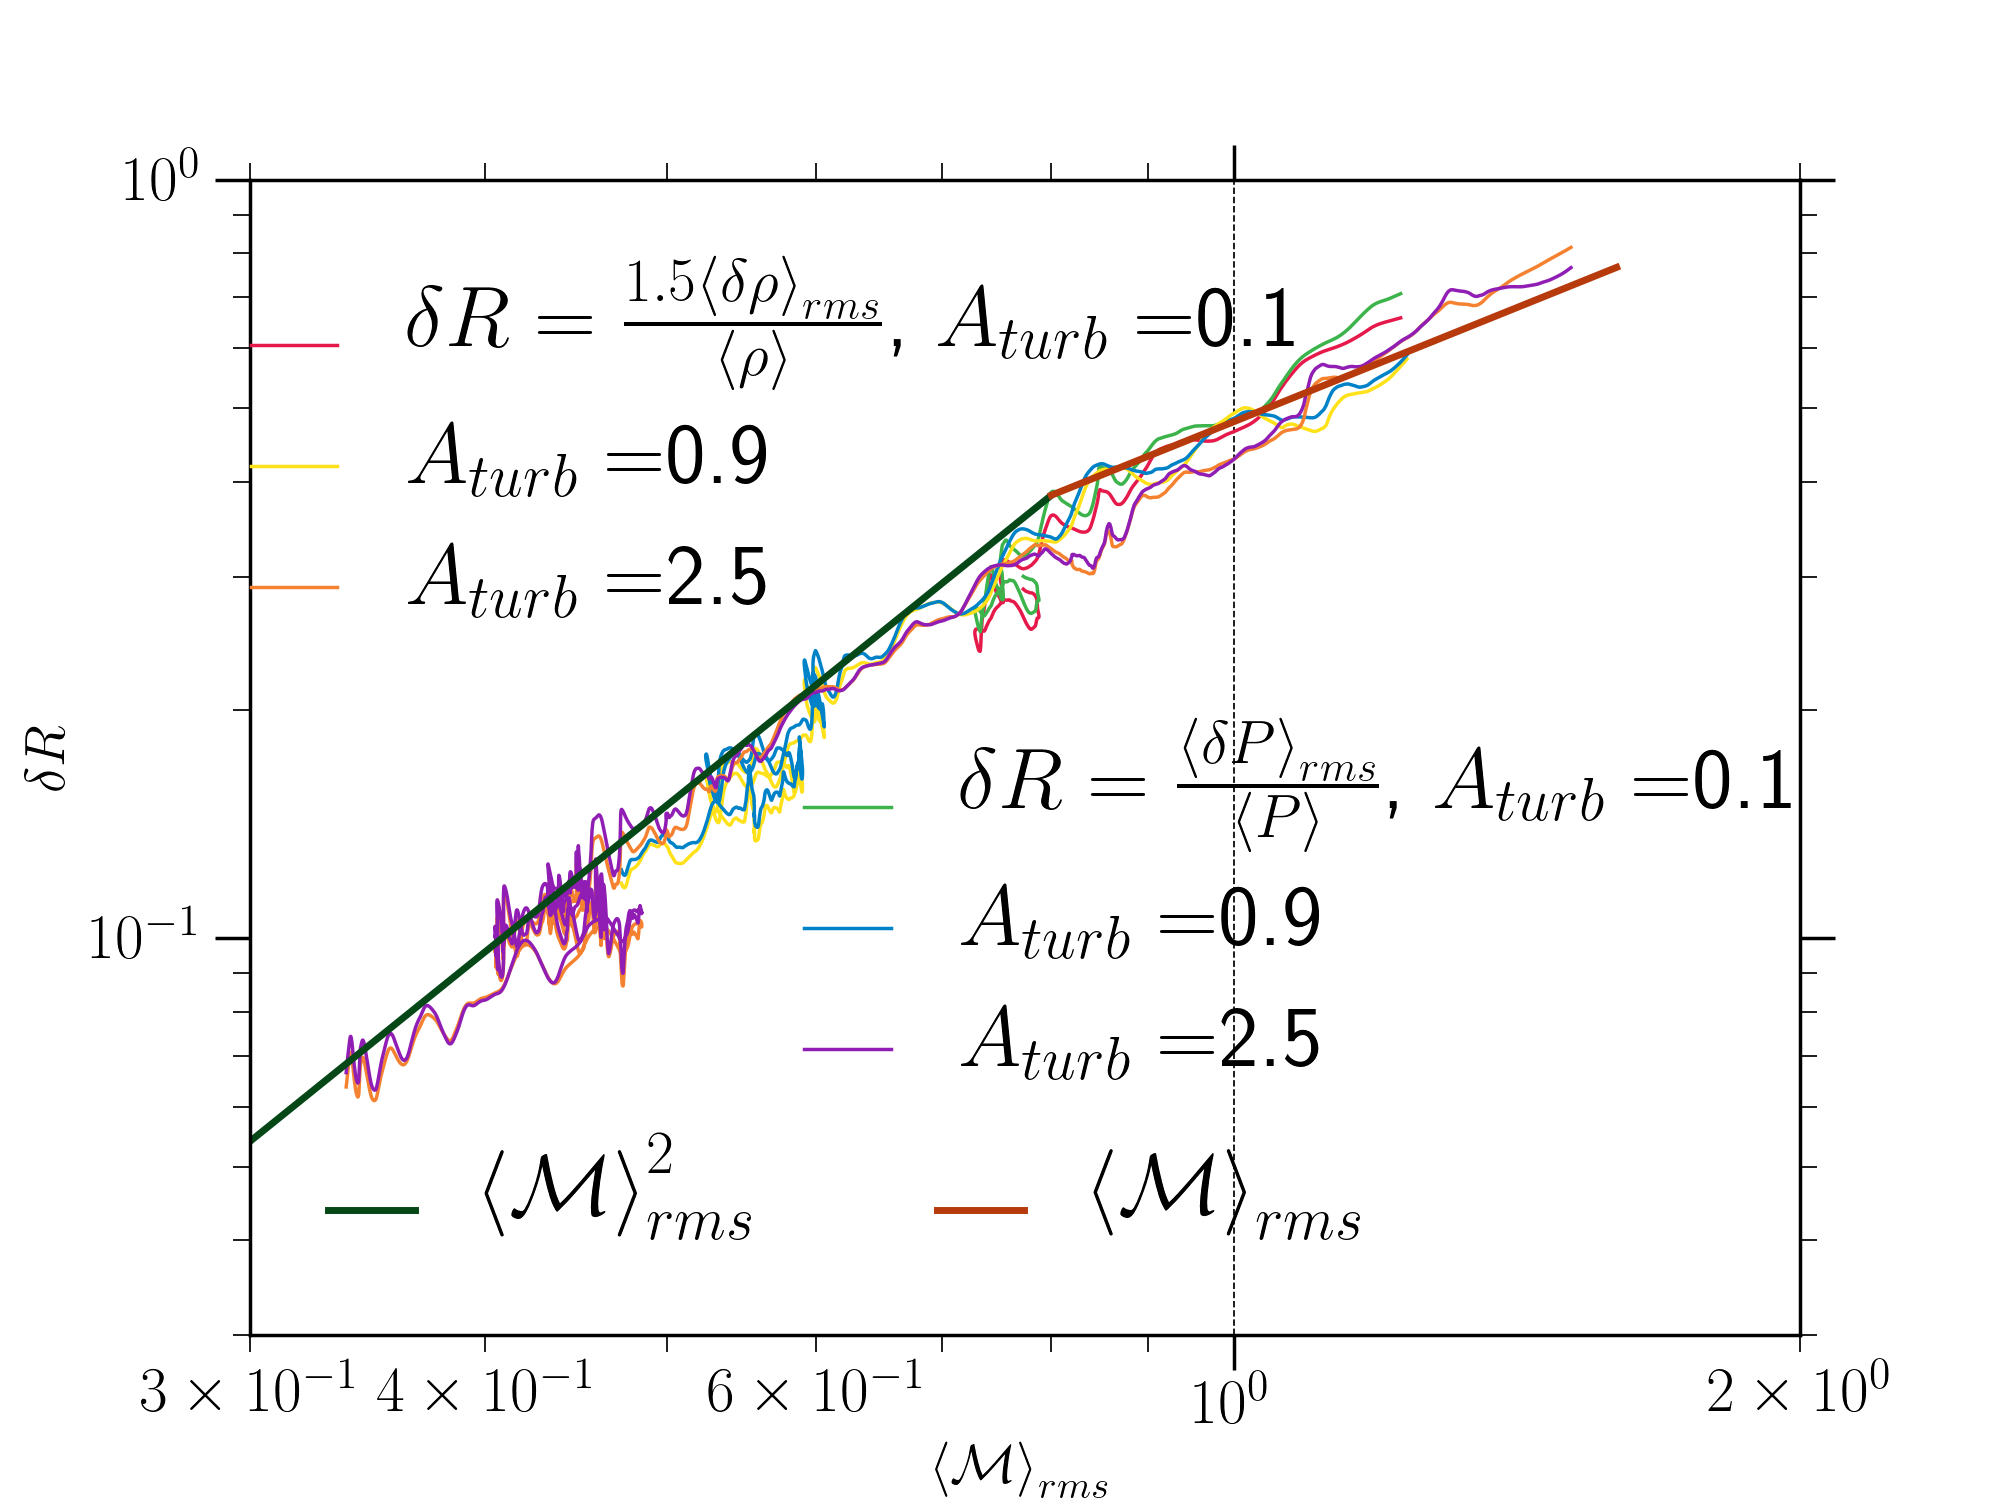
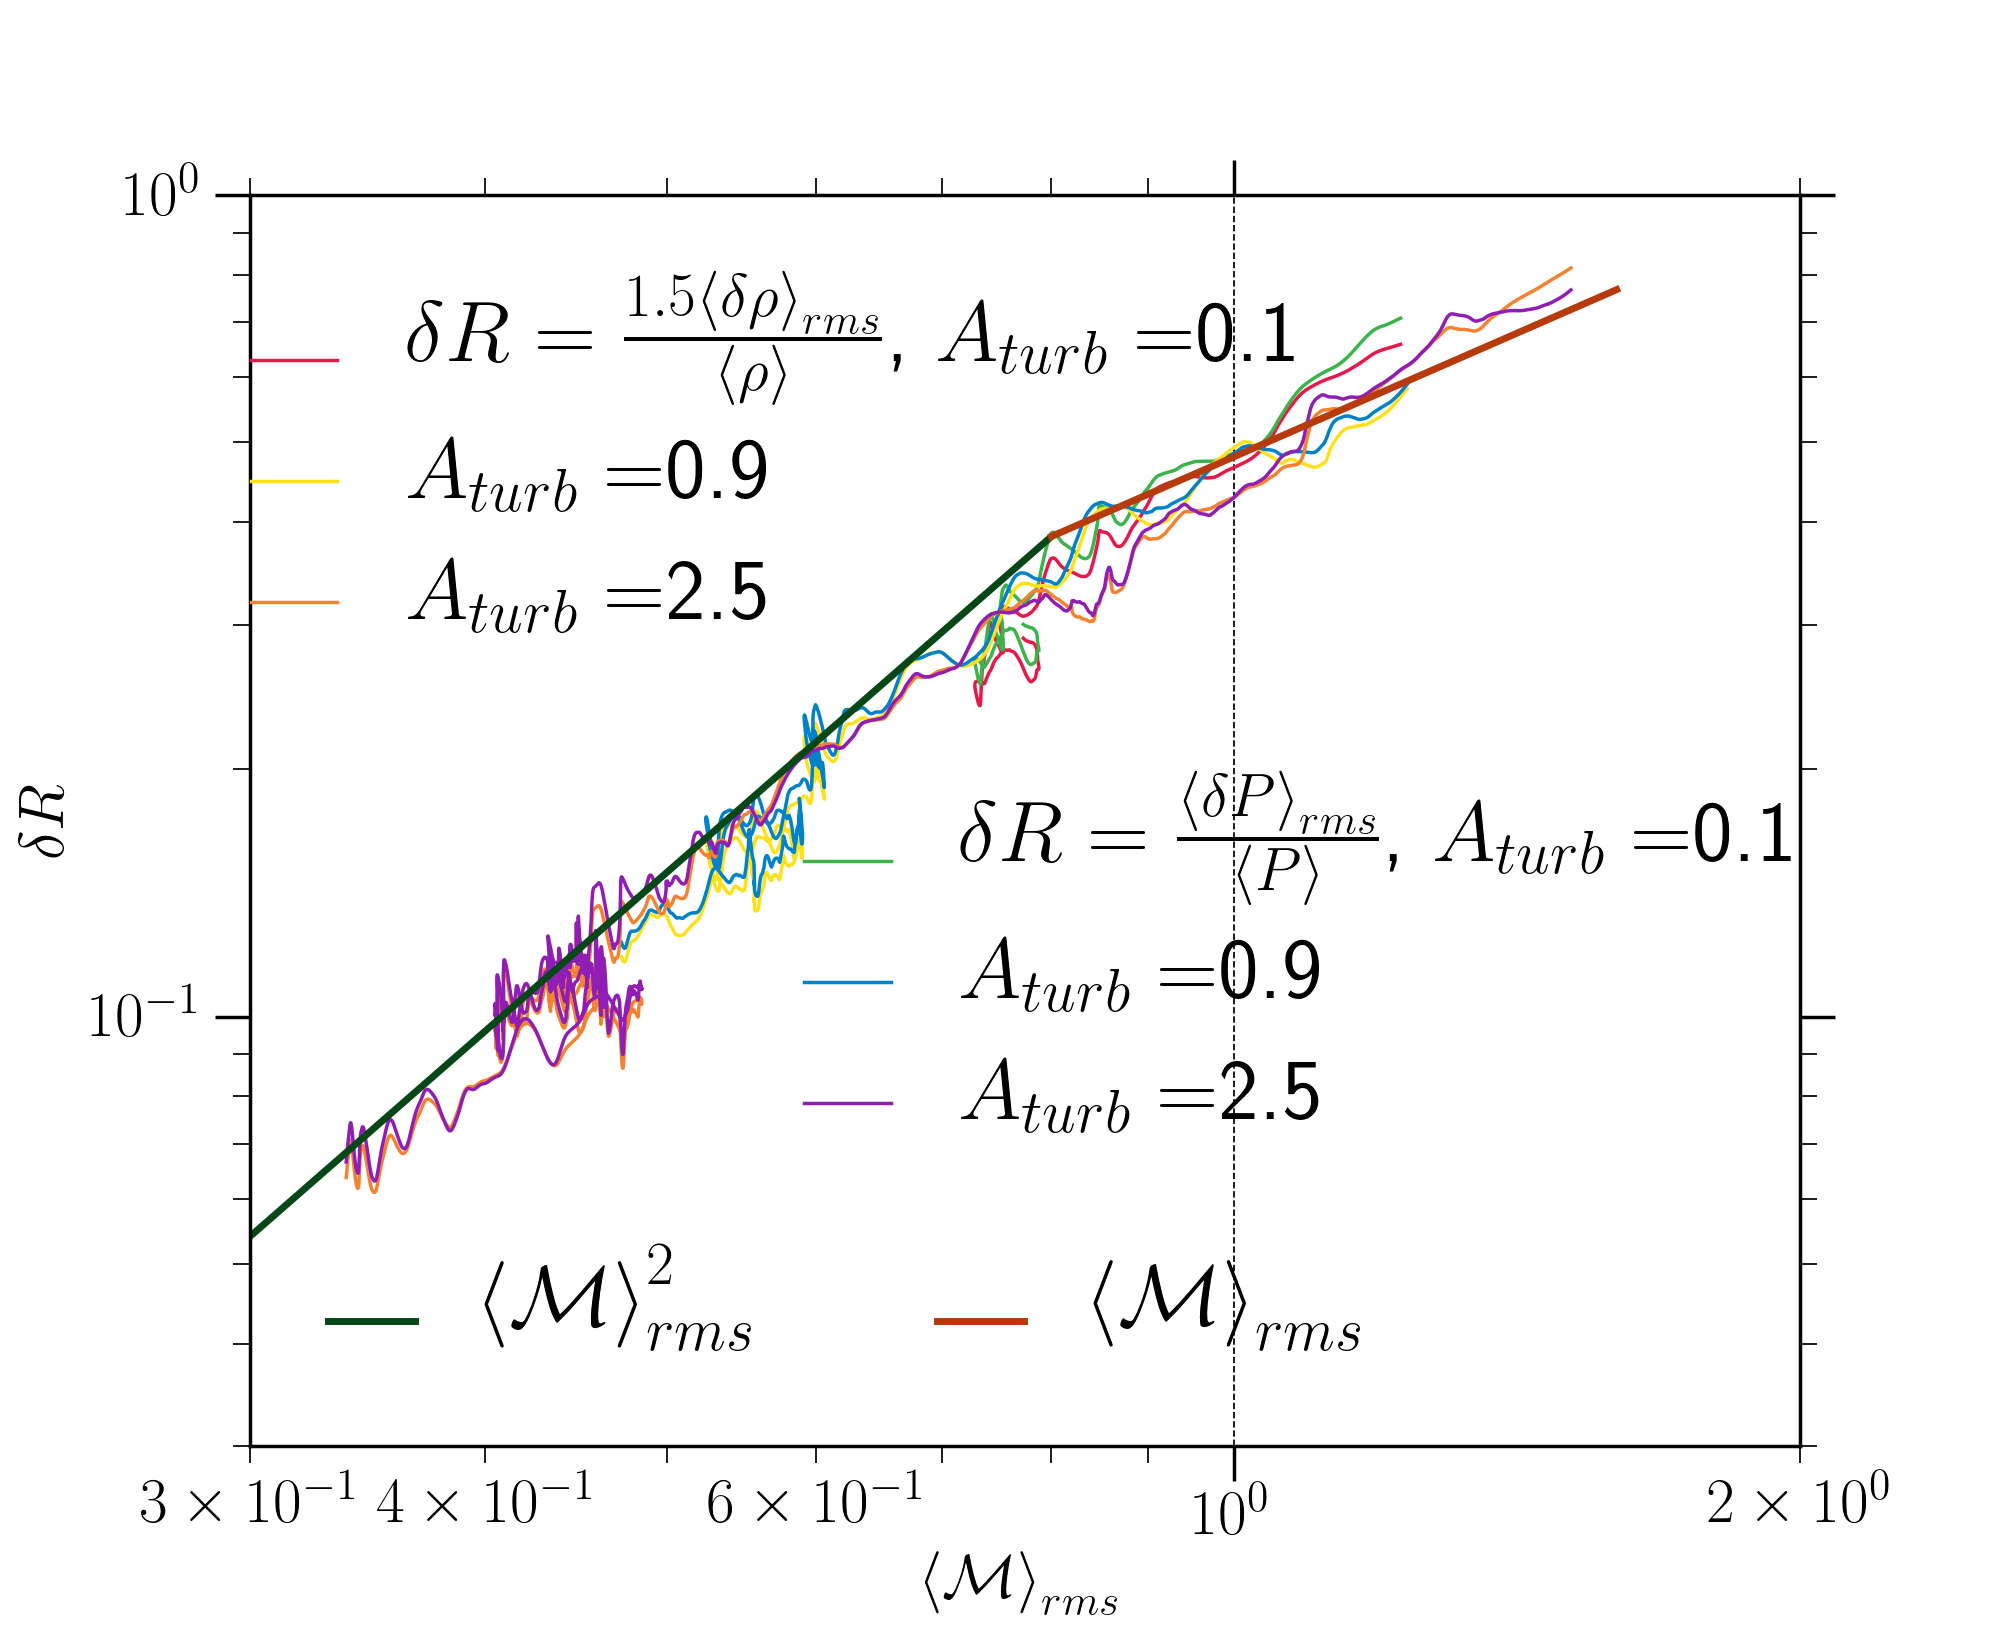
Edited plots

diff --git a/surface_brightness/sb_mach.py b/surface_brightness/sb_mach.py
@@ -8,15 +8,18 @@ import pylab as plot
 import pyPLUTO as pp
 
 #plt.style.use('classic')
-params = {'legend.fontsize':10.,
+params = {'legend.fontsize':16,
           'legend.handlelength': 1.0}
-plt.rcParams['axes.linewidth'] = .5
-plt.rcParams['xtick.major.size'] = 8
-plt.rcParams['xtick.minor.size'] = 4
-plt.rcParams['ytick.major.size'] = 6
-plt.rcParams['ytick.minor.size'] = 3
-plt.rcParams['ytick.minor.size'] = 3
+plt.rcParams['axes.linewidth'] = 1.0
+plt.rcParams['xtick.major.size'] = 16
+plt.rcParams['xtick.minor.size'] = 8
+plt.rcParams['ytick.major.size'] = 14
+plt.rcParams['ytick.minor.size'] = 7
+plt.rcParams['xtick.labelsize'] = 18
+plt.rcParams['ytick.labelsize'] = 18
 plot.rcParams.update(params)
+
+plt.rc('text', usetex=True)
 
 plt.rc('text', usetex=True)
 
@@ -27,14 +30,14 @@ colors=((230, 25, 75), (250, 190, 190) , (60, 180, 75), (255, 225, 25), (0, 130,
 colors=np.array(colors)/255.
 
 num_plots=4
-spectra = [None] * (num_plots*2)
+perturb = [None] * (1)
 fit = [None] * (2)
 
 
 #Initialise the figure
 
 fig, ax = plt.subplots()
-fig.set_size_inches(7., 7.)
+fig.set_size_inches(7.5, 6.)
 
 start=np.array((83, 100, 75, 35, 20, 18, 14, 5, 4, 2))
 amp=np.array((0.005, 0.005, 0.02, 0.02, 0.10, 0.1, 0.1, 0.9, 0.9, 2.5))
@@ -49,21 +52,29 @@ for i in xrange(start.size):
 	data=np.fromfile(filedir+'sbs'+str(start[i]).rjust(4,'0')+'.dbl')
 	sb_dev[i]=np.std(data)
 	sb_mean[i]=np.average(data)
-ax.scatter(mach, sb_dev/sb_mean, label=r'$\frac{\delta (SB)}{\left<SB\right>}$ vs $\left<\mathcal{M}\right>_{rms}$')
+perturb[0],=ax.plot(mach, sb_dev/sb_mean, 'o',  label=r'$\delta R=\frac{\delta (SB)}{\left<SB\right>}$')
+
 m1=np.arange(0.21, 0.8, 0.01)
 m2=np.arange(0.8, 2.0, 0.01)
-ax.plot(m1, 0.24*m1**2., label=r'$\left<\mathcal{M}\right>_{rms}^2$')
-ax.plot(m2, .24*m2, label=r'$\left<\mathcal{M}\right>_{rms}$')
-ax.legend(loc='upper center', ncol=3, fancybox=True, framealpha=0., fontsize=15)
+
+perturb_leg=ax.legend(handles=perturb, loc='upper left', bbox_to_anchor=(-0.05, 1.0), ncol=1, fontsize=25)
+ax.add_artist(perturb_leg)
+perturb_leg.get_frame().set_alpha(0.)
+
+fit[0],=ax.plot(m1, 0.24*m1**2., label=r'$\left<\mathcal{M}\right>_{rms}^2$')
+fit[1],=ax.plot(m2, .24*m2, label=r'$\left<\mathcal{M}\right>_{rms}$')
+fit_leg=ax.legend(handles=fit, loc='lower right', bbox_to_anchor=(1.0, 0.0), ncol=2, fontsize=25)
+fit_leg.get_frame().set_alpha(0.)
+
 ax.set_xscale('log')
 ax.set_yscale('log')
-ax.set_xlim(0.1,3.)
+ax.set_xlim(0.2,3.)
 ax.set_ylim(0.009,1.)
-ax.set_xlabel('$\mathcal{M}$',  fontsize=12)
-ax.set_ylabel(r'$\frac{\delta (SB)}{SB}$',  fontsize=14)
+ax.set_xlabel('$\mathcal{M}$',  fontsize=18)
+ax.set_ylabel(r'$\delta R$',  fontsize=18)
 
-ax.tick_params(axis='both', which='major', direction='out', length=6, width=0.5, top=True, right=True)
-ax.tick_params(axis='both', which='minor', direction='out', length=3, width=0.25, top=True, right=True)
+ax.tick_params(axis='both', which='major', direction='out', length=10, width=1.0, top=True, right=True)
+ax.tick_params(axis='both', which='minor', direction='out', length=5, width=0.5, top=True, right=True)
 ax.grid(color='black', linestyle='dashed', linewidth=.5, axis='x')
 
 plt.savefig('sb_mach.png', dpi=250)

diff --git a/rho-mach/density_mach_256.py b/rho-mach/density_mach_256.py
@@ -50,9 +50,9 @@ for i1 in xrange(0,np.shape(amp)[0]):
  
 		perturb2[i1], =ax.plot(data[:,11],data[:,13],label=r'$A_{turb}=$'+str(amp[i1]), color=colors[2*i1+1], marker="d", markeredgecolor='none', markersize=0.1, linewidth=1.0)
 
-fig.set_size_inches(8, 6)
-ax.set_xlabel(r'$\left< \mathcal{M}\right>_{rms}$', fontsize=16)
-ax.set_ylabel(r'$\delta R$', fontsize=16)
+fig.set_size_inches(8, 6.5)
+ax.set_xlabel(r'$\left< \mathcal{M}\right>_{rms}$', fontsize=18)
+ax.set_ylabel(r'$\delta R$', fontsize=18)
 #ax.set_ylabel(r'$\frac{1.5\left<\delta\rho\right>_{rms}}{\left<\rho\right>}$, $\frac{\left<\delta P\right>_{rms}}{\left< P\right>}$', fontsize=16)
 x1=np.arange(0.3,0.8,0.002)
 y=np.arange(0.8,1.6,0.002)
